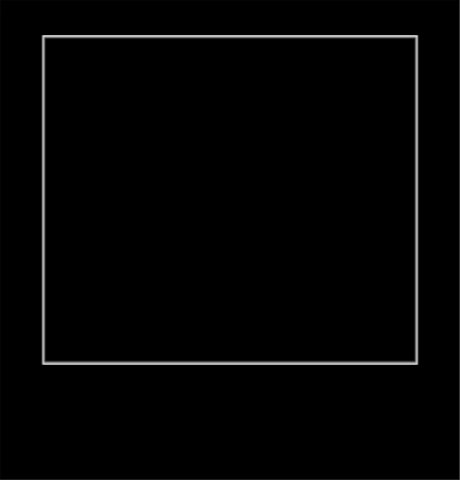
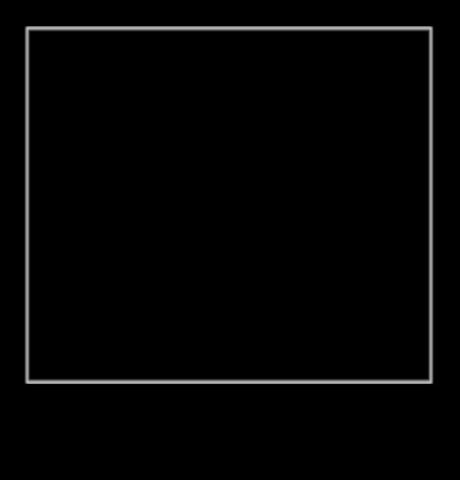
demotivator text vertical align

Changed region(s): [[0.0304, 0.0312, 0.9435, 0.8125], [0.9739, 0.9688, 1.0, 1.0]]

diff --git a/bot.py b/bot.py
@@ -396,10 +396,10 @@ async def demotivators(message):
 def demotivator_generator(path='', title_text='', plain_text=''):
     filter_complex = []
     if path != '':
-        filter_complex = ["[1]scale=368:321[inner]", "[0][inner]overlay=47:40[meme]"]
-    filter_complex.append(f"[{'meme' if path != '' else '0'}]drawtext=fontfile=materials/TimesNewRoman.ttf:text='{title_text}':fontsize=40:fontcolor=white:x=(w-text_w)/2:y={'385' if plain_text else '400'}[meme]")
+        filter_complex = ["[1]scale=394:345[inner]", "[0][inner]overlay=33:33[meme]"]
+    filter_complex.append(f"[{'meme' if path != '' else '0'}]drawtext=fontfile=materials/TimesNewRoman.ttf:text='{title_text}':fontsize=40:fontcolor=white:x=(w-text_w)/2:y={'384+((h-384)*(3/5) - text_h)/2' if plain_text else '(384+(h-384-text_h)/2)'}[meme]")
     if plain_text:
-        filter_complex.append(f"[meme]drawtext=fontfile=materials/TimesNewRoman.ttf:text='{plain_text}': fontsize=25: fontcolor=white: x=(w-text_w)/2: y=433[meme]")
+        filter_complex.append(f"[meme]drawtext=fontfile=materials/TimesNewRoman.ttf:text='{plain_text}': fontsize=25: fontcolor=white: x=(w-text_w)/2: y=384+(h-384)*(3/5)+(h - (384 + (h-384)*(3/5))-text_h)/2[meme]")
     name = "temp/output" + str(int(random.random() * 10000)) + '.jpg'
     command = f"ffmpeg -i materials/template.jpg{f' -i {path}' if path else ''} -filter_complex \"{';'.join(filter_complex)}\" -map [meme] -y {name}"
     os.system(command)
@@ -409,7 +409,7 @@ def demotivator_generator(path='', title_text='', plain_text=''):
 def demotivator_video(path, title_text, plain_text=""):
     template = demotivator_generator(title_text=title_text, plain_text=plain_text)
     name = "temp/output" + str(int(random.random() * 10000)) + '.mp4'
-    os.system(f'ffmpeg -loglevel panic -loop 1 -i {template} -vf "movie={path},scale=368:321[inner];[in][inner]overlay=47:40:shortest=1[out]" -y {name}')
+    os.system(f'ffmpeg -loglevel panic -loop 1 -i {template} -vf "movie={path},scale=394:345[inner];[in][inner]overlay=33:33:shortest=1[out]" -y {name}')
     os.remove(template)
     return name
 
